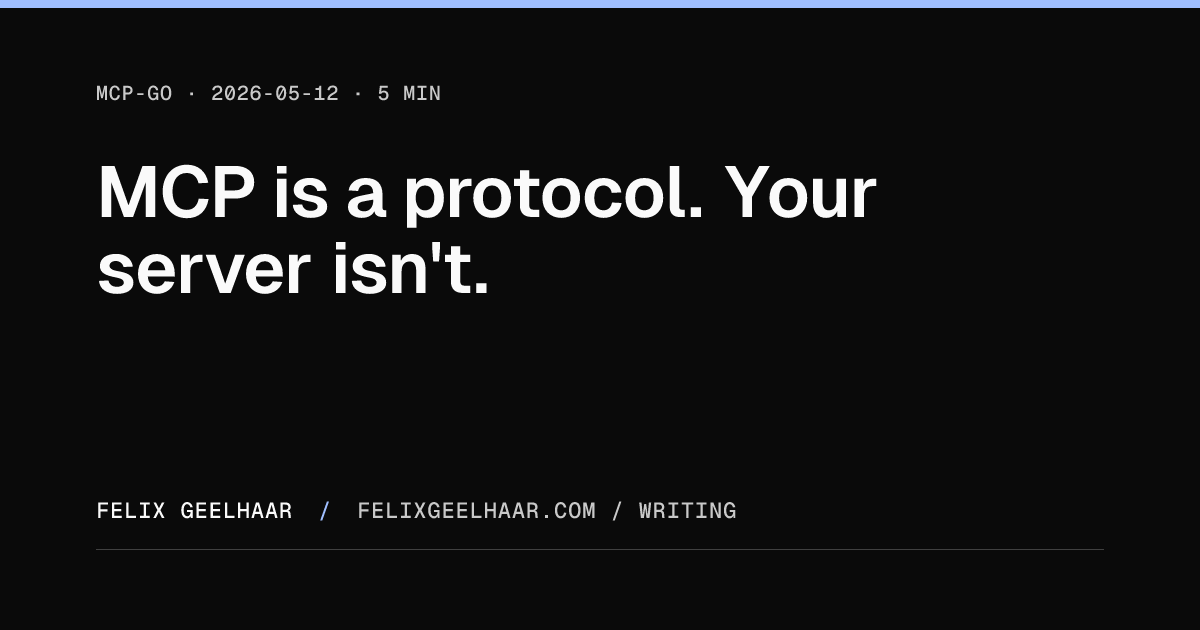
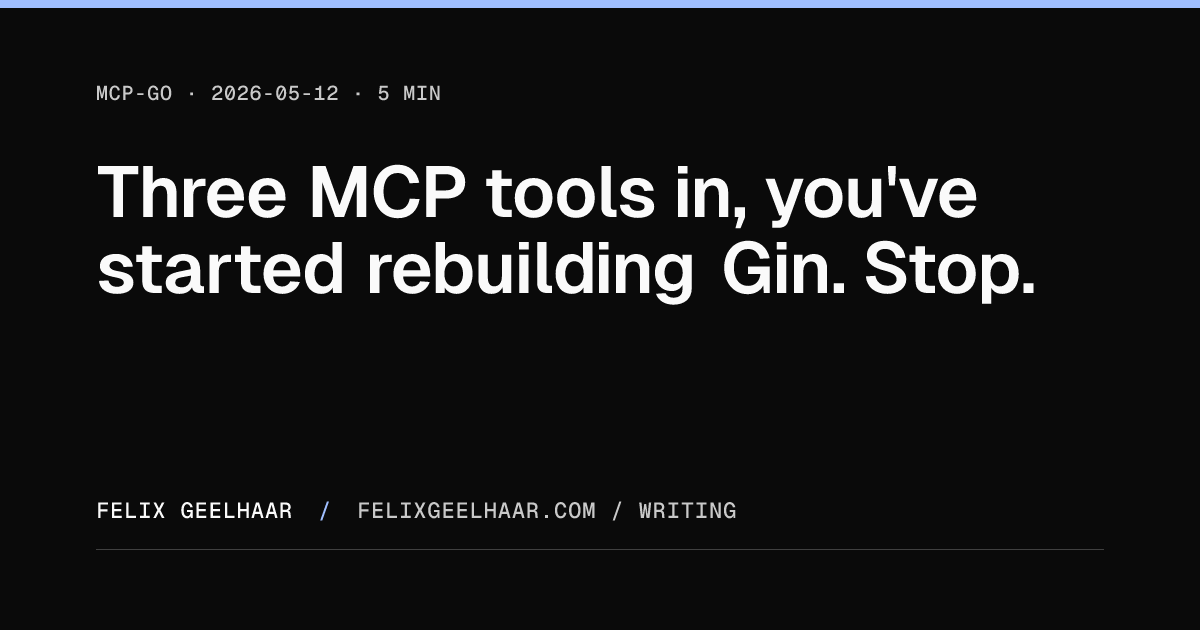
content: review-driven rewrites + Armada in nav
Headlines (GTM review flagged these three as weakest for HN/LinkedIn
shareability):
- jira-campaign-orchestration:
  was "Jira can run a 200-team campaign. The defaults can't."
  now "Every 200-team rollout ends in a Google Sheet. Fix it in Jira."
  Universal pain → specific fix, not Jira-coded out of the gate.
- loggers-trilemma:
  was "Pick performance, ergonomics, and observability. All three."
  now "The Logger's Trilemma was a sampling artifact."
  Names the concept that's the actual hook; sharper in a feed.
- mcp-server-application:
  was "MCP is a protocol. Your server isn't."
  now "Three MCP tools in, you've started rebuilding Gin. Stop."
  Names the moment the reader recognises themselves in.

Closes (product review flagged):
- 21-patterns: append "Send me the ones I missed. I'll add them and
  credit you." Makes it a living doc + a growth loop.
- cognitive-stack: replace generic close with a failure-mode →
  starting-primitive mapping. Reader leaves with a first move based
  on which of the 8 anti-patterns they recognised.

Nav:
- Add Armada to primary nav (between Lab and Talks). Promotes the
  paid product out of the Lab side-list into top-level navigation.
- nav type extended to include 'armada'.
- /armada page now passes nav="armada" so aria-current marks correctly.

Regenerated OG images for the three retitled posts so social previews
match the new headlines.

Changed region(s): [[0.0617, 0.2413, 0.8633, 0.4825]]

diff --git a/src/content/writing/cognitive-stack.md b/src/content/writing/cognitive-stack.md
@@ -81,4 +81,12 @@ I've been building each piece as a domain-agnostic Go library so they compose wi
 
 Each one is replaceable. The thesis is the composition: an agent runtime isn't one thing, and pretending it is means the first three failures will look like model problems, framework problems, or "we need a better prompt." They aren't. They're missing primitives.
 
-Pick yours. Keep them separate. Compose them deliberately.
+If you're starting from one of the eight failure modes above and don't know which primitive to adopt first, the mapping is reliable:
+
+- **Memory-as-buffer** or **memory written by A used by B** → start with the evidence layer ([Mnemos](https://github.com/felixgeelhaar/mnemos)). It's the most load-bearing primitive and the easiest to retrofit later.
+- **The unsupervised loop** or **fake control plane via dashboards** → start with the control plane ([Olymp](https://github.com/felixgeelhaar/olymp)). Once two agents share a runtime, the supervisor is non-negotiable.
+- **Prose-as-API** or **audit log = chat transcript** → start with typed actions ([Praxis](https://github.com/felixgeelhaar/praxis)). The action layer is where the agent meets the world; it should be the most rigorously typed part.
+- **Time-blind agent** or repeated misses on patterns the data shows → start with time perception ([Chronos](https://github.com/felixgeelhaar/chronos)).
+- **Promise amnesia** or dropped follow-throughs → start with commitment tracking ([Nous](https://github.com/felixgeelhaar/nous)).
+
+Pick the one your incident report points at. Add the next within the quarter.

diff --git a/src/content/writing/21-patterns-shipping-with-agents.md b/src/content/writing/21-patterns-shipping-with-agents.md
@@ -75,3 +75,5 @@ Two open questions I don't have answers for:
 - **What's the right unit of measurement?** Commits, diffs, tasks, sessions, all wrong in different ways. The shape of agent-assisted work doesn't match the shape of the metrics we ship today. (This one might be a whole essay.)
 
 This list is partial on purpose. The naming matters more than the completeness.
+
+Send me the ones I missed. I'll add them and credit you.

diff --git a/src/content/writing/jira-campaign-orchestration.md b/src/content/writing/jira-campaign-orchestration.md
@@ -1,5 +1,5 @@
 ---
-title: "Jira can run a 200-team campaign. The defaults can't."
+title: "Every 200-team rollout ends in a Google Sheet. Fix it in Jira."
 summary: "Security patches, migrations, compliance audits — large-scale initiatives are fan-out problems Jira's defaults don't solve. Teams reach for spreadsheets and lose every benefit of the workflow they left."
 date: 2026-02-01
 readingMins: 8

diff --git a/src/content/writing/mcp-server-application.md b/src/content/writing/mcp-server-application.md
@@ -1,5 +1,5 @@
 ---
-title: "MCP is a protocol. Your server isn't."
+title: "Three MCP tools in, you've started rebuilding Gin. Stop."
 summary: "Hand-rolling MCP servers on raw SDKs means re-solving input decoding, validation, schema generation, errors, middleware, and transports — five times, in five repos, each slightly wrong. The protocol is the easy part."
 date: 2026-05-12
 readingMins: 5

diff --git a/src/content/writing/loggers-trilemma.md b/src/content/writing/loggers-trilemma.md
@@ -1,5 +1,5 @@
 ---
-title: "Pick performance, ergonomics, and observability. All three."
+title: "The Logger's Trilemma was a sampling artifact."
 summary: "The Logger's Trilemma says you can have two of speed, developer experience, and observability. The trilemma was a sampling problem; modern slog handlers can ship all three."
 date: 2026-05-09
 readingMins: 5
